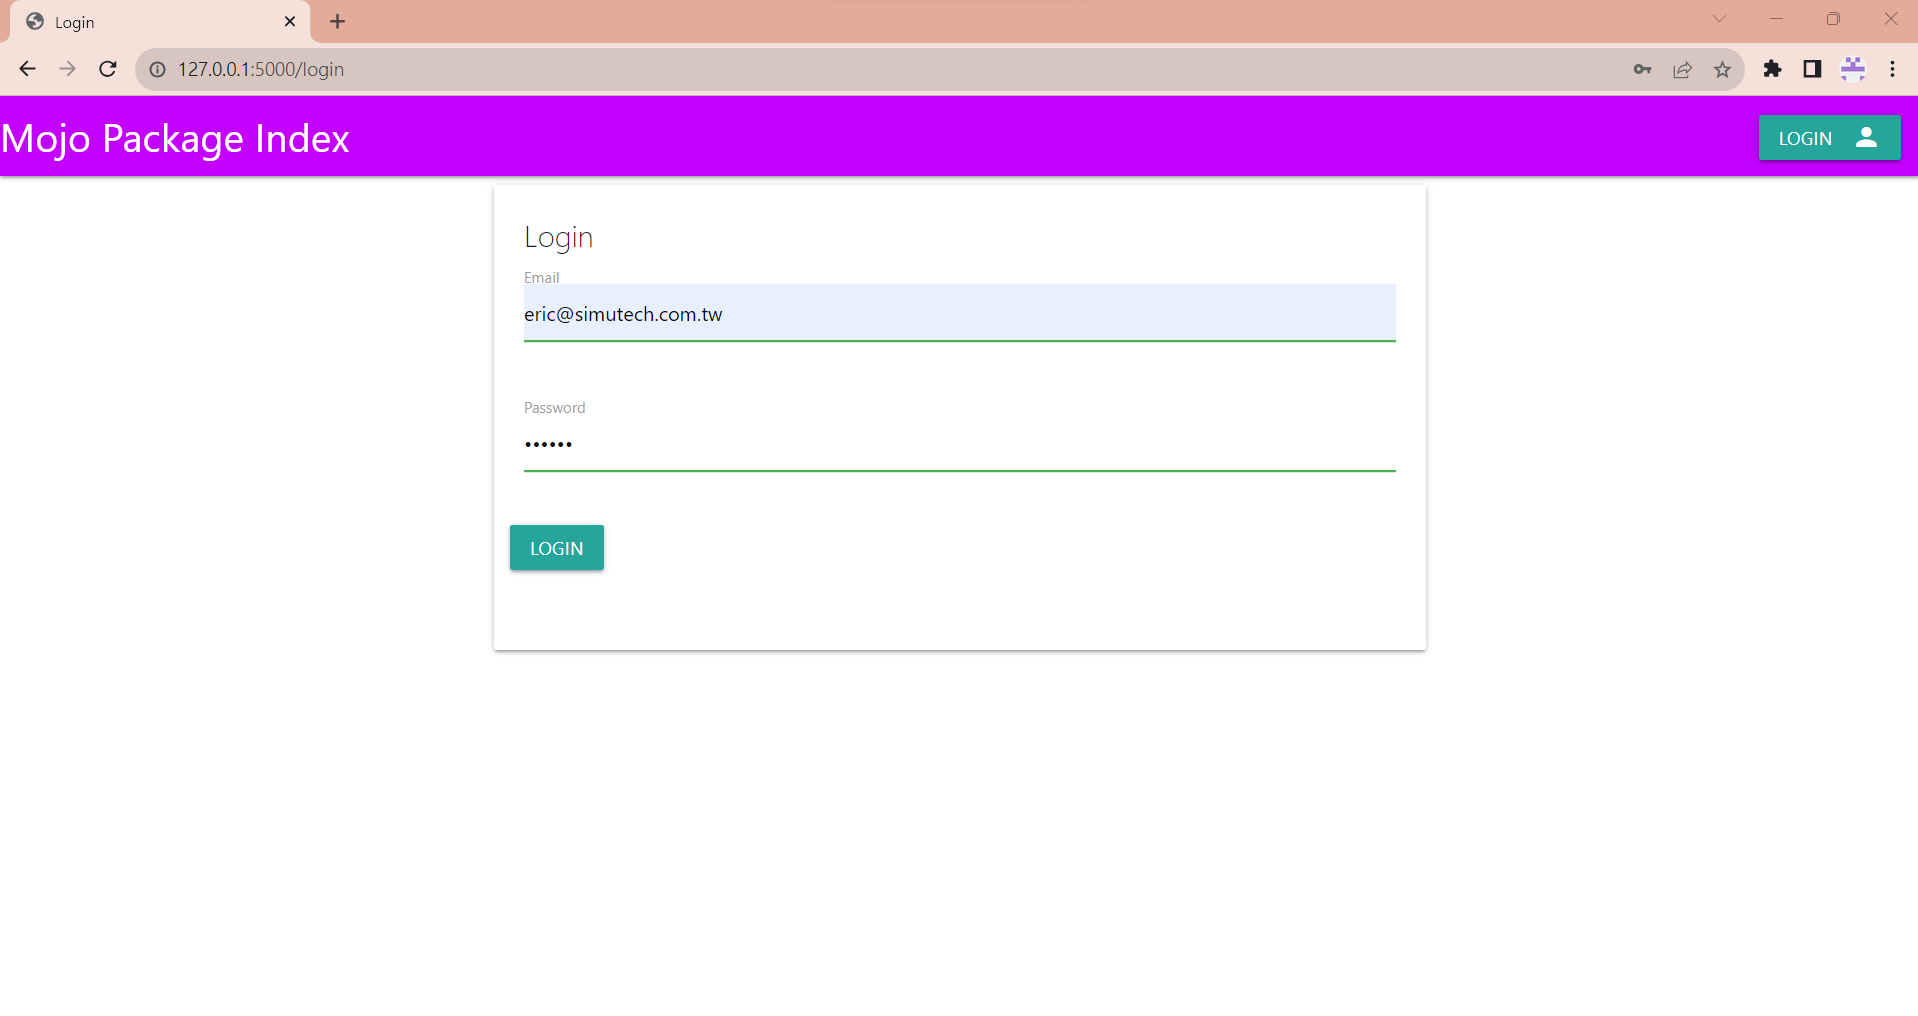
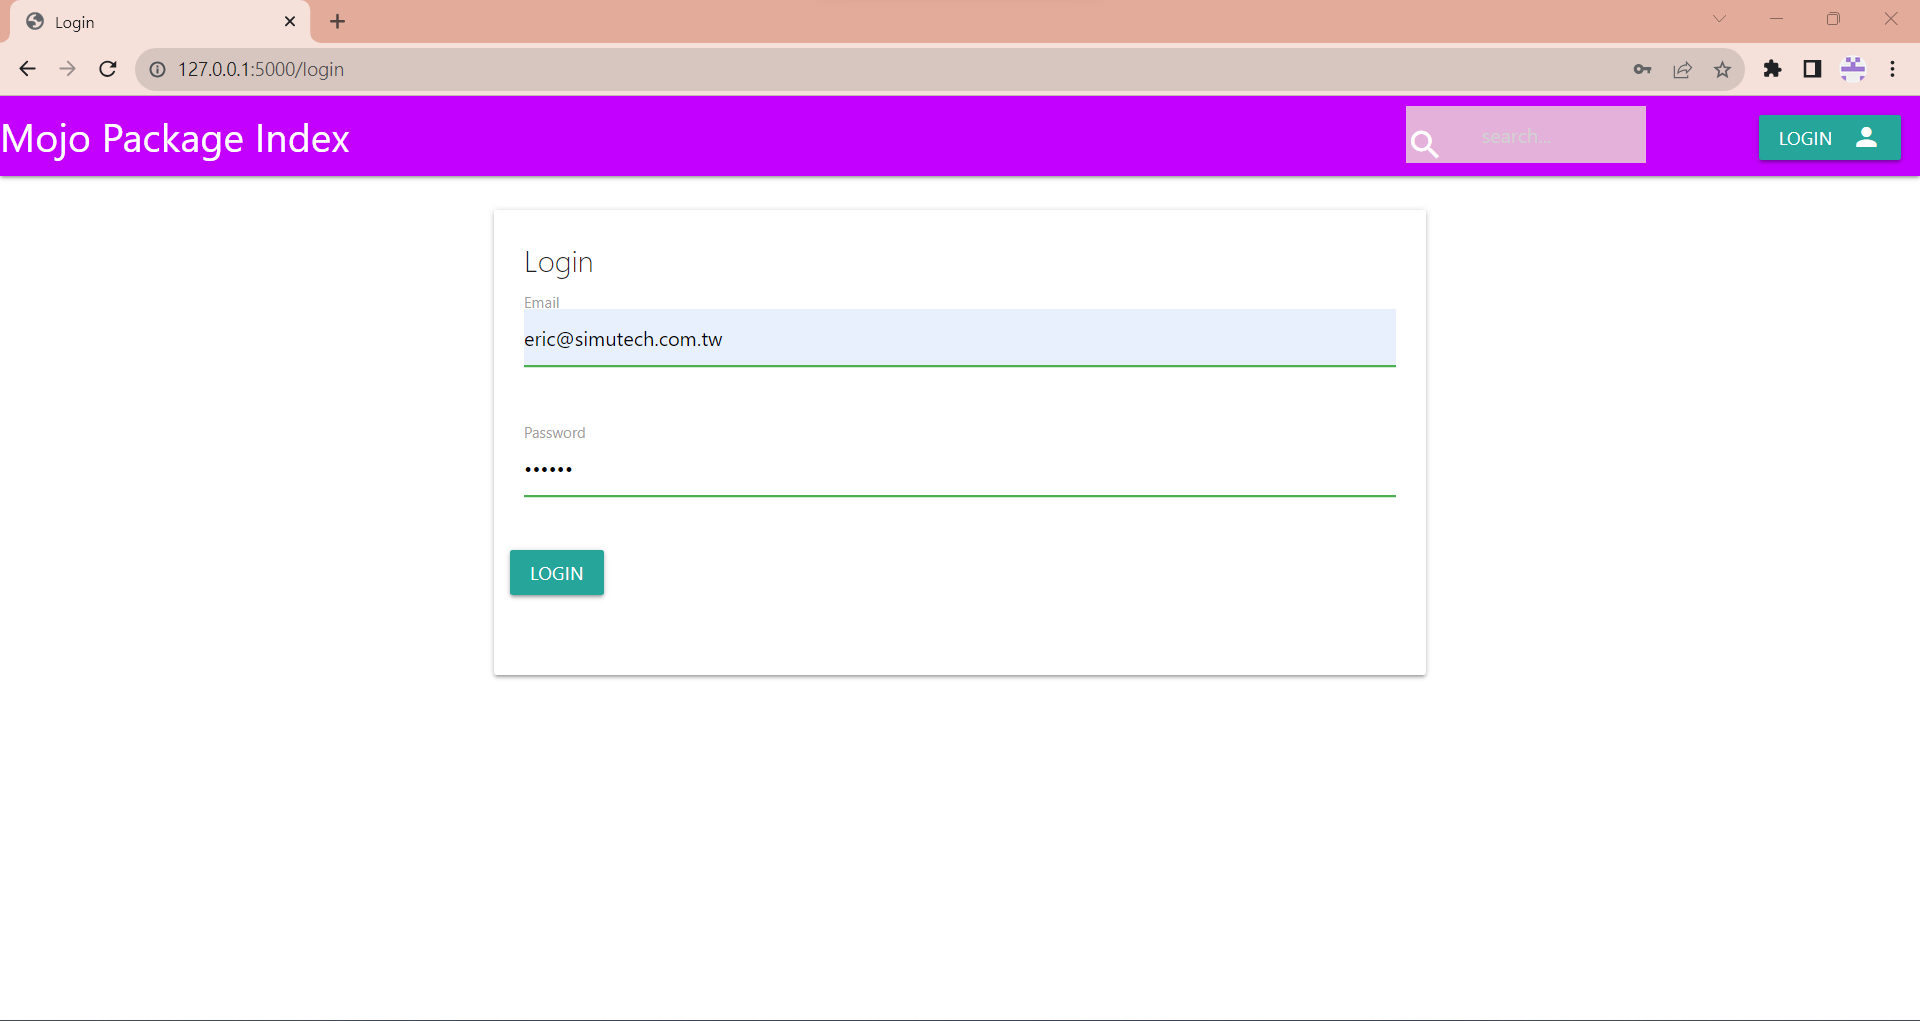
Fix search bar ok

diff --git a/src/mojopi/templates/navbar.html b/src/mojopi/templates/navbar.html
@@ -3,6 +3,19 @@
         <a href="/" class="brand-logo">Mojo Package Index</a>
         <a href="#" data-target="mobile-demo" class="sidenav-trigger"><i class="material-icons">menu</i></a>
         <ul id="nav-mobile" class="right">
+            <li>
+                <div class="row">
+                    <!-- 使用 col s6 來指定搜尋欄佔據 6 個網格列，即佔畫面一半寬度 -->
+                    <div class="col s6 m6">
+                      <form action="/search" class="search-form" method="GET">
+                        <div class="input-field">
+                          <input class="center-align" id="search" type="text" name="q" placeholder="search..." />
+                          <i id="search-icon" class="material-icons prefix">search</i>
+                        </div>
+                      </form>
+                    </div>
+                </div>
+            </li>
             {% if admin_mode %}
             <li><a href="/admin/">Admin</a></li>
             {% endif %}

diff --git a/src/mojopi/templates/index.html b/src/mojopi/templates/index.html
@@ -14,18 +14,6 @@
   <!-- 在這裡添加您的內容 -->
   {% include 'navbar.html' %}
 
-  <div class="row">
-    <!-- 使用 col s6 來指定搜尋欄佔據 6 個網格列，即佔畫面一半寬度 -->
-    <div class="col s6 m6">
-      <form action="/search" class="search-form" method="GET">
-        <div class="input-field">
-          <input class="center-align" id="search" type="text" name="q" placeholder="search..." />
-          <i id="search-icon" class="material-icons prefix">search</i>
-        </div>
-      </form>
-    </div>
-  </div>
-
   {% if not current_user.is_authenticated %}
   <div class="center-align"> <!-- This will center the button horizontally -->
     <a id="register_button" class="waves-effect waves-light btn" href="/register">Register</a>

diff --git a/src/mojopi/static/css/custom.css b/src/mojopi/static/css/custom.css
@@ -78,7 +78,7 @@
 
 #search {
   padding: 0 45px 0 30px;;
-  background-color: #ffe58f; /* 新增樣式：淡黃色背景 */
+  background-color: #e4b1db; /* 新增樣式：淡黃色背景 */
 }
 
 #search-result-project {
